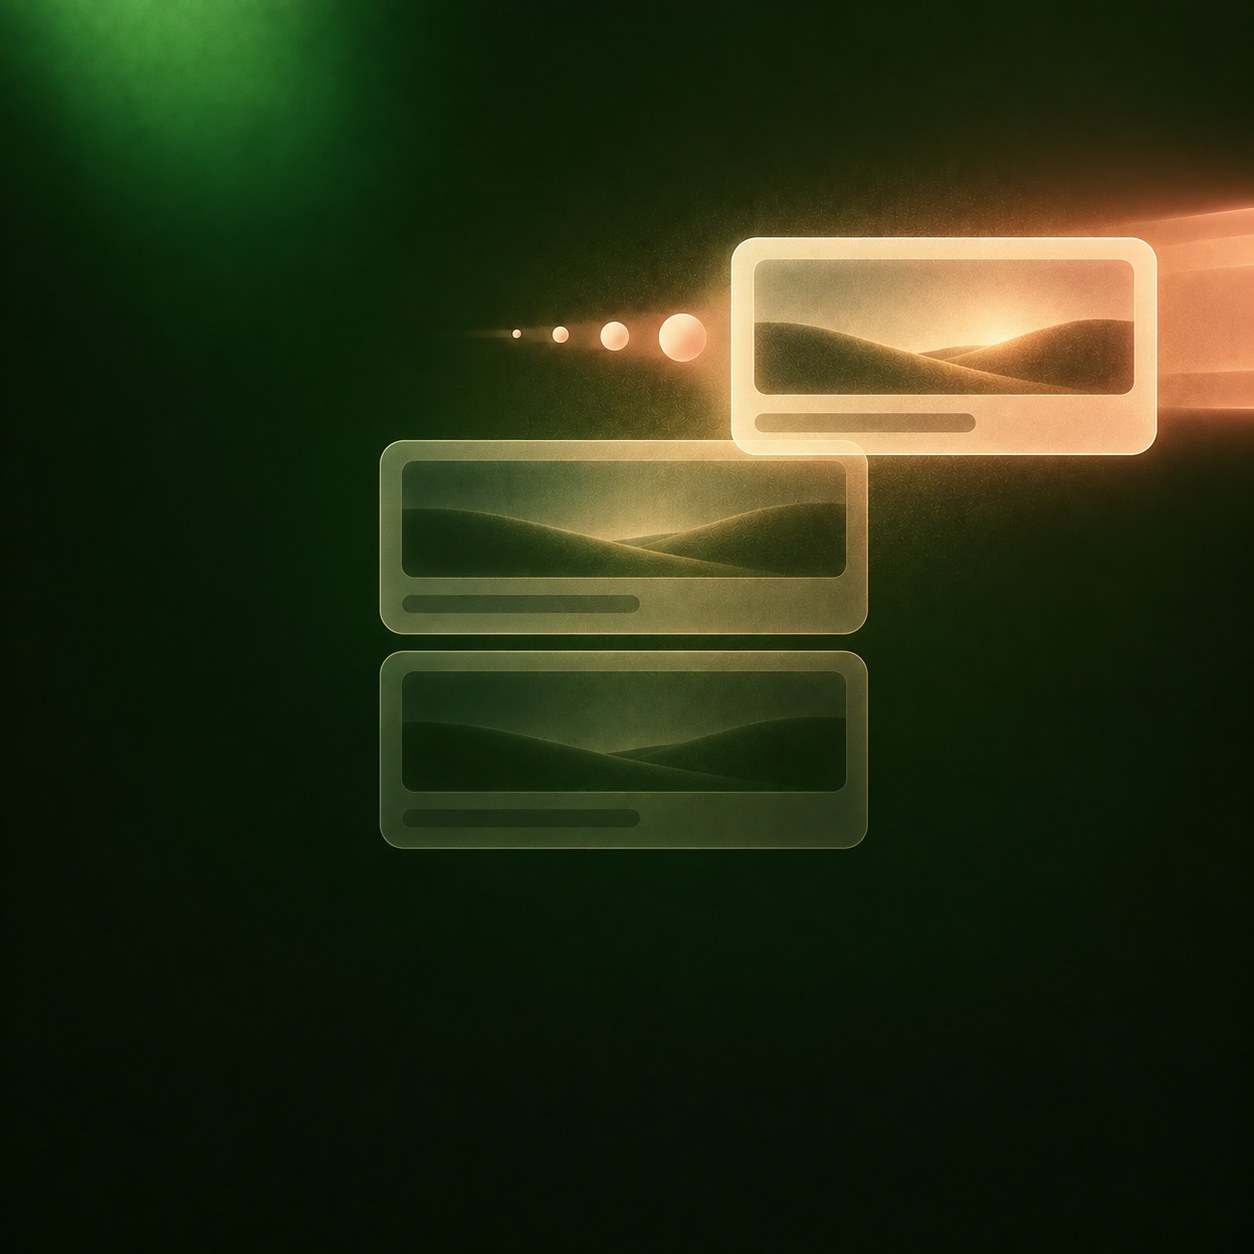
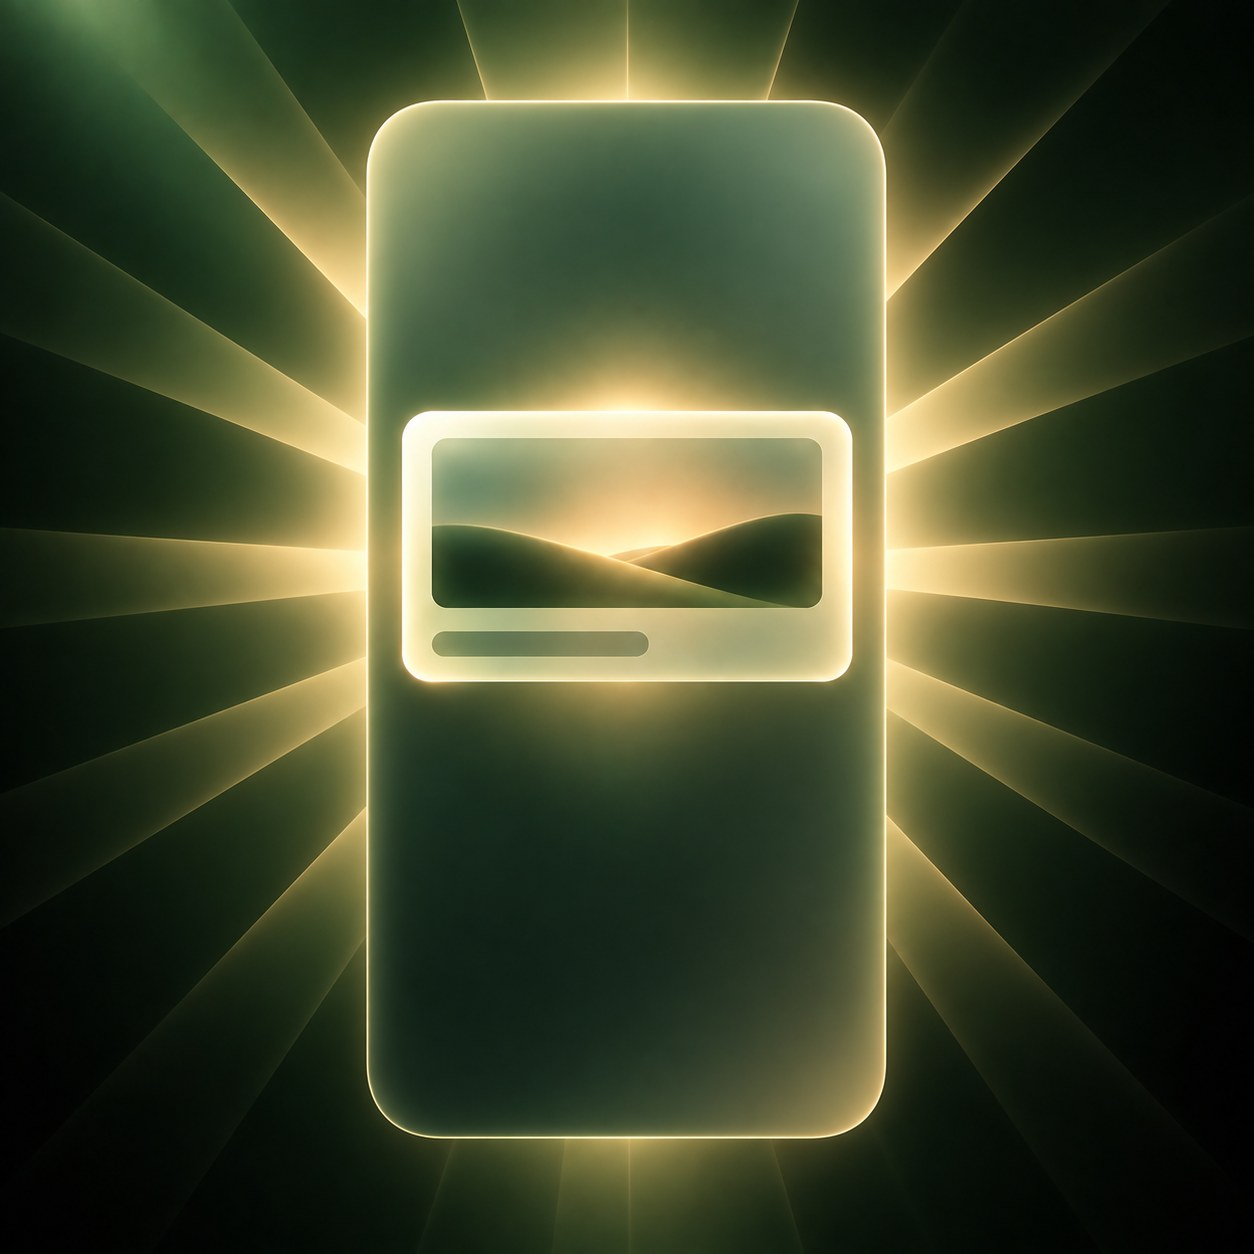
Intro card: new slide 3 illustration
Claude-Session: https://claude.ai/code/session_015QXPY9occJKnTsEt3Z8dyo

diff --git a/CHANGELOG.md b/CHANGELOG.md
@@ -2,6 +2,10 @@
 
 Human-readable log of what changed in the onboarding prototype, for product review. Updated at each local commit — most recent first.
 
+## 2026-09-19 — Intro card: new slide 3 illustration
+
+Slide 3 ("Approve and publish to your platforms.") now uses a new illustration: a phone radiating light with a card/photo held at its center. Replaces the previous card-leaving-the-stack composition.
+
 ## 2026-09-19 — Launch Reveal card: new creative
 
 The "Position the launch as an occasion, not a product drop" post now uses the final cloche-lift photography (pancake mix pouch + shake glass under the lifted glass cloche, warm amber spotlight) instead of the placeholder image.
